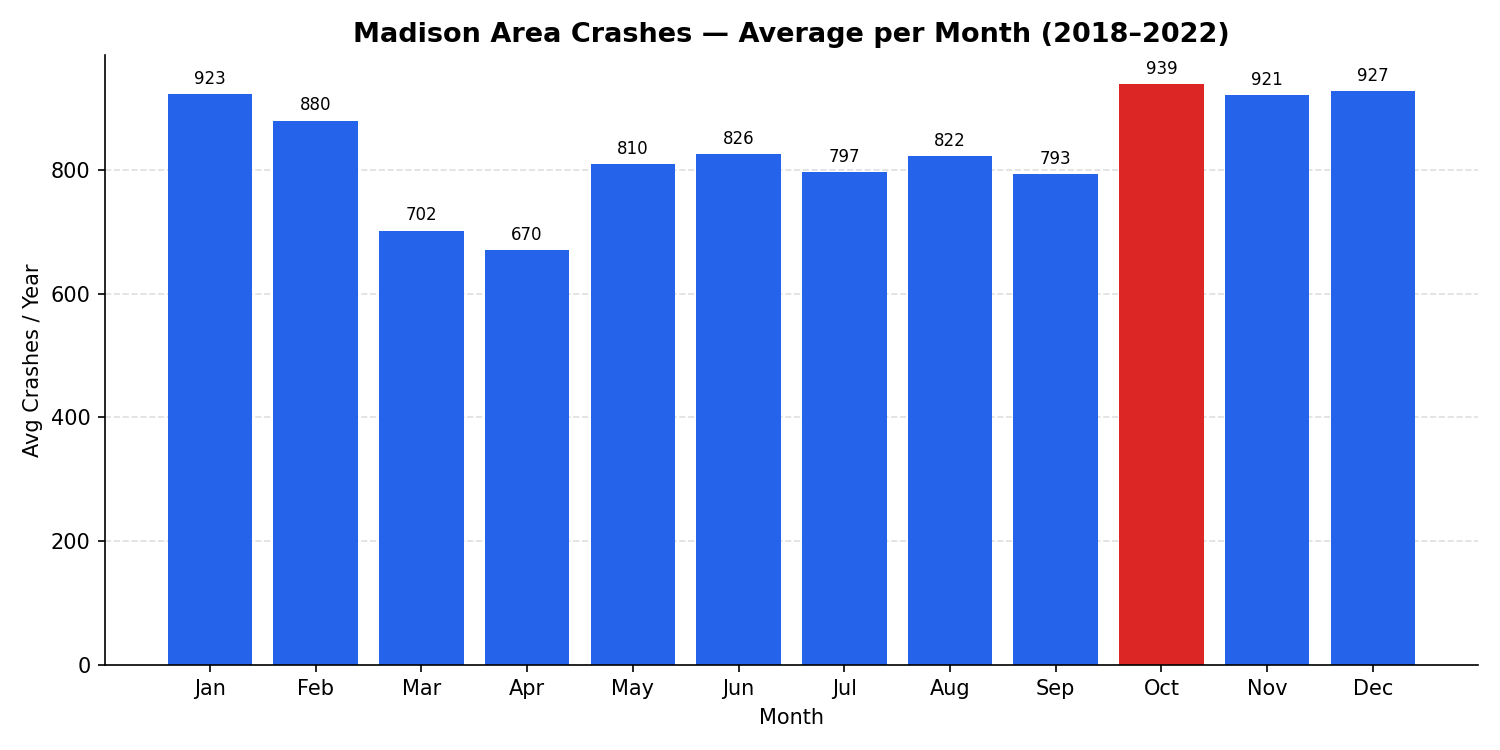
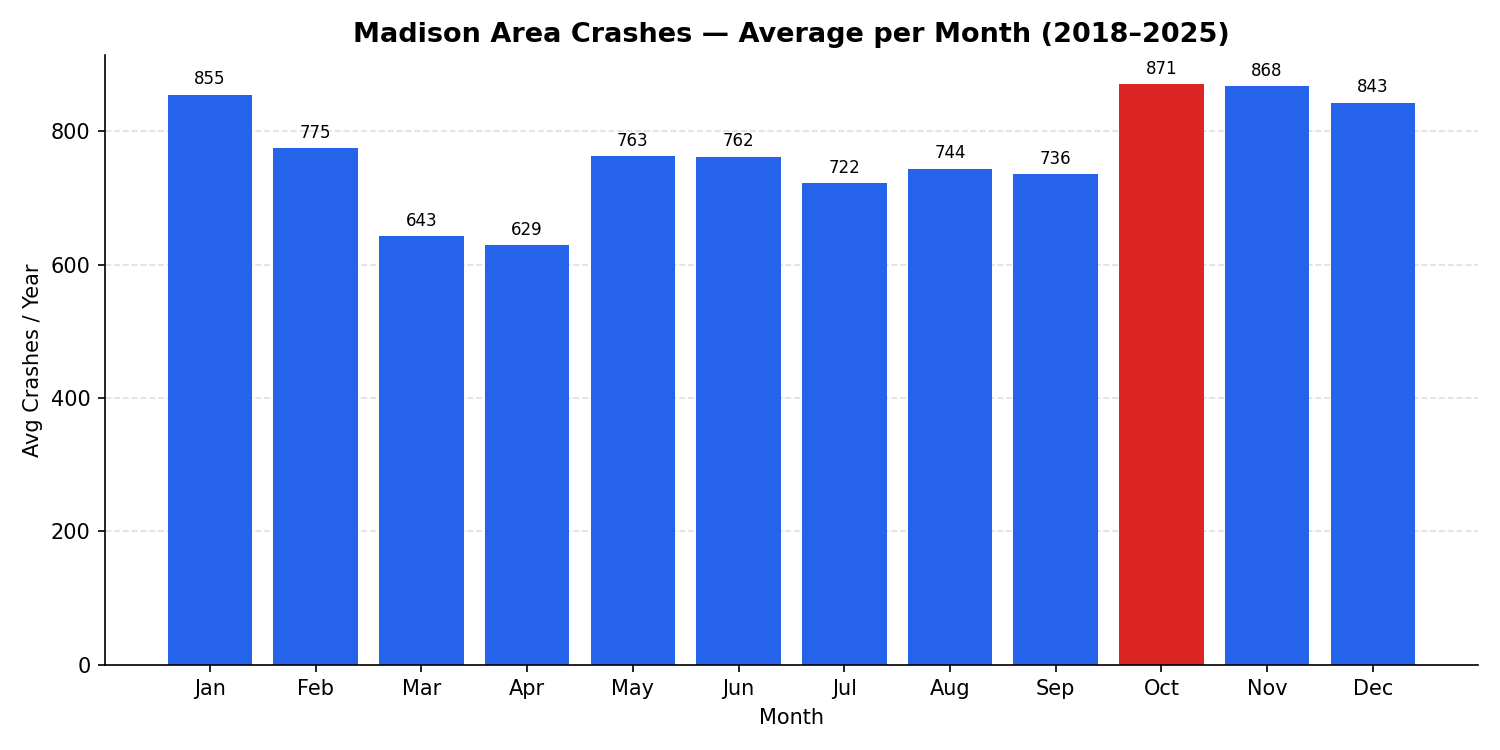
fix: update monthly crash chart to 2018–2025 (8 years)
Year count now queried dynamically from DB instead of hardcoded to 5.
Title updated. Avg crashes/month now reflects all 73,691 records.

diff --git a/scripts/07_visualize_crashes.py b/scripts/07_visualize_crashes.py
@@ -62,15 +62,15 @@ def chart_monthly():
     """)
     df["month_name"] = df["month"].apply(lambda m: MONTH_NAMES[m - 1])
 
-    # Normalize to average per year (5 years of data)
-    df["avg_crashes"] = (df["crashes"] / 5).round(0).astype(int)
+    num_years = query("SELECT COUNT(DISTINCT source_year) AS n FROM crashes")["n"][0]
+    df["avg_crashes"] = (df["crashes"] / num_years).round(0).astype(int)
 
     colors = [RED if v == df["avg_crashes"].max() else BLUE for v in df["avg_crashes"]]
 
     fig, ax = plt.subplots(figsize=(10, 5))
     bars = ax.bar(df["month_name"], df["avg_crashes"], color=colors, zorder=2)
     ax.bar_label(bars, fmt="%d", padding=3, fontsize=8)
-    ax.set_title("Madison Area Crashes — Average per Month (2018–2022)",
+    ax.set_title("Madison Area Crashes — Average per Month (2018–2025)",
                  fontsize=13, fontweight="bold")
     ax.set_xlabel("Month")
     ax.set_ylabel("Avg Crashes / Year")